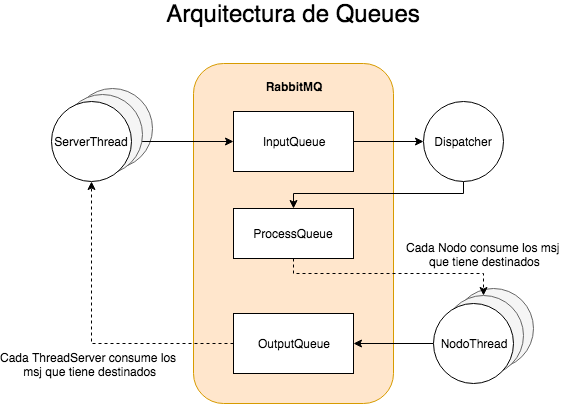
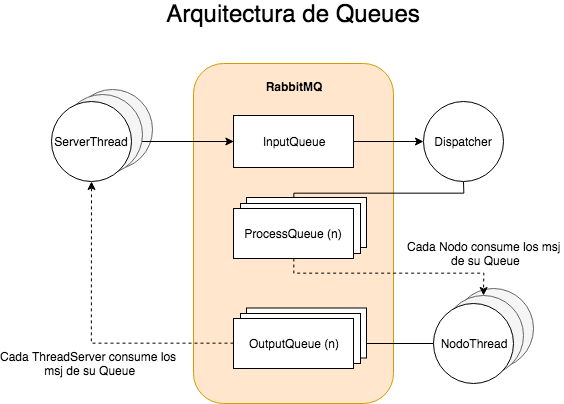
Actualiza propuesta Queues.

diff --git a/Practico2/README.md b/Practico2/README.md
@@ -29,10 +29,10 @@ Se diseño la siguiente arquitectura de colas:
 
 **InputQueue**, es aquella queue que recibe peticiones. El ServerMain es su productor y el Dispatcher su consumidor.
 
-**processQueue**, es aquella queue que recibe peticiones ya destinadas a un Nodo en particular. El Dispatcher es su productor y el Nodo su consumidor.
+**processQueue (n)**, es aquella queue que recibe peticiones ya destinadas a un Nodo en particular. El Dispatcher es su productor y el Nodo su consumidor.
 
-**OutputQueue**, es aquella queue en donde se escriben los resultados. El Nodo es el productor y el ServerMain es su consumidor.
+**OutputQueue (n)**, es aquella queue en donde se escriben los resultados. El Nodo es el productor y el ServerMain es su consumidor.
 
 **Bibliografia / Ejemplos**:
 - [Balanceo de Carga](https://www.digitalocean.com/community/tutorials/what-is-load-balancing)
-- [RabbitMQ - RPC](https://www.rabbitmq.com/tutorials/tutorial-six-java.html)
+- [RabbitMQ - Tutoriales](https://www.rabbitmq.com/getstarted.html)
